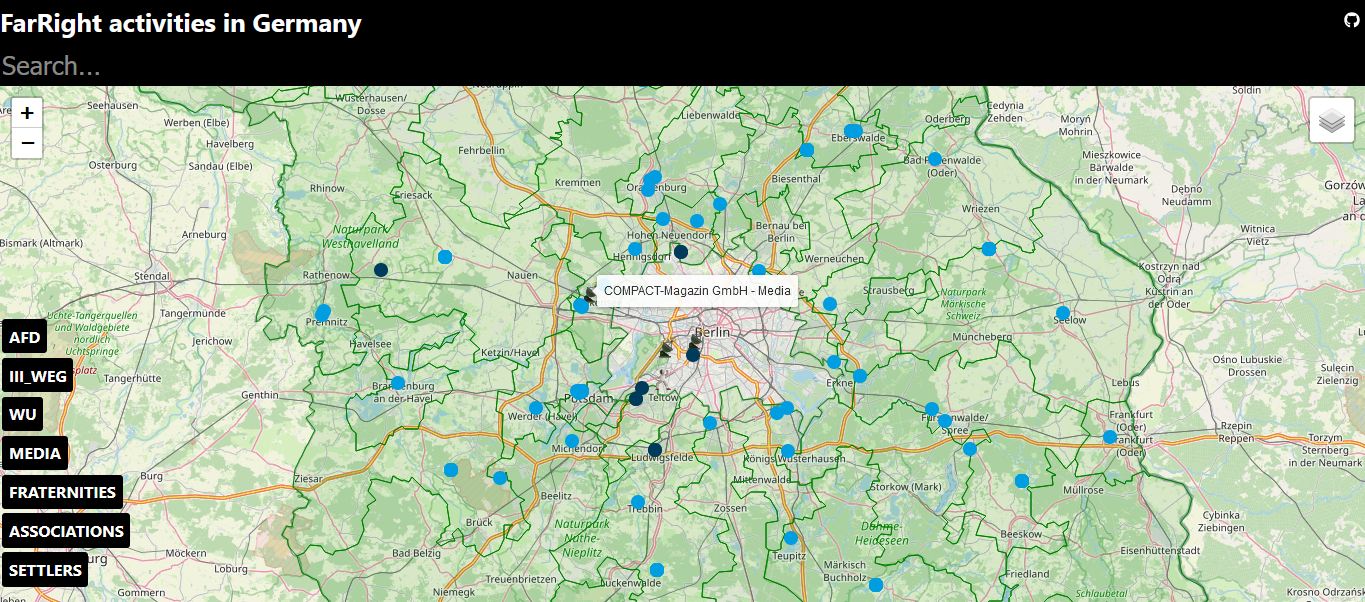
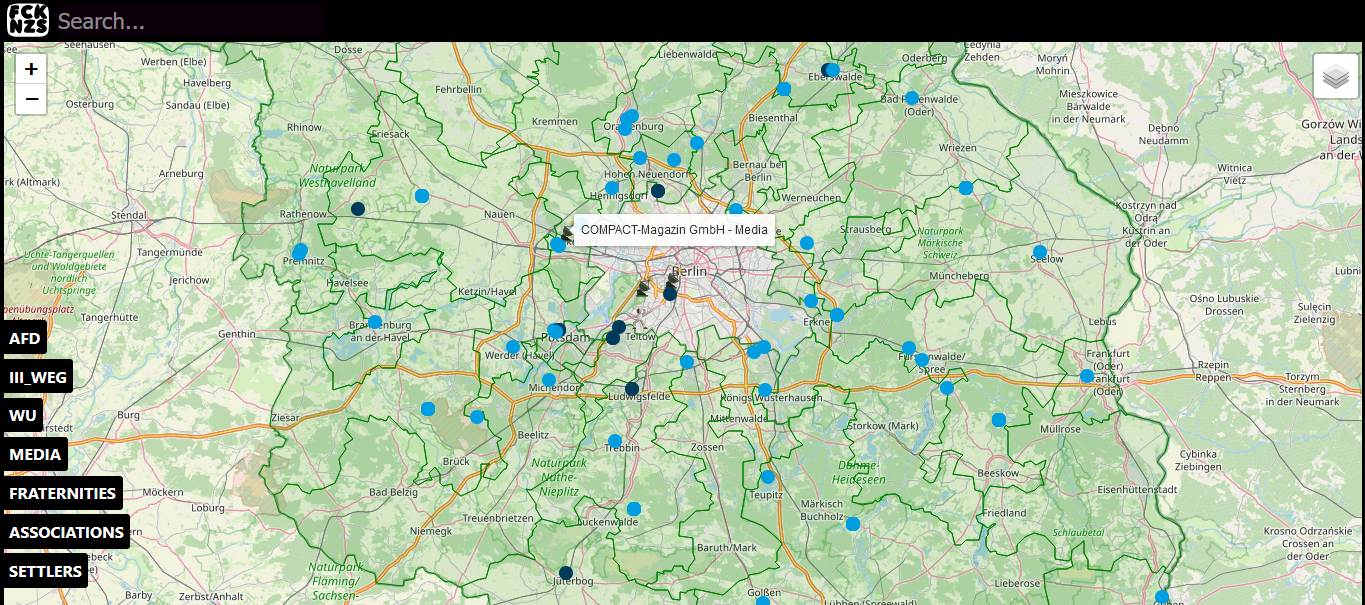
sc update, css styling

diff --git a/src/styles/Home.module.scss b/src/styles/Home.module.scss
@@ -34,20 +34,19 @@
 }
 
 .inputText {
-  width:77vw;
-  height: 2.1em;
   font-size: 1.4em;
-  background: rgba(0,0,0, 1.0);
+  background: rgb(11, 0, 10);
   color: white;
   border: none;
-  margin-left: 2.94rem ;
-  display: flex ;
+  margin-left: 3.21rem;
+  display: flex;
   justify-content: center;
   align-items: center;
-  padding: 0.5em;
+  padding: 0.14rem;
   border-radius: 0.5em;
   position: relative;
   z-index: 1000;
+  margin-bottom: 0.35rem;
 }
 
 .inputText:focus {

diff --git a/src/components/Layout/Layout.module.scss b/src/components/Layout/Layout.module.scss
@@ -10,12 +10,8 @@
 }
 
 .logo {
-  display: flex;
-  justify-content: center;
-  align-items: center;
-  padding: 0.28rem;
   position: absolute;
   left: 0.42rem;
-  top: 0.21rem;
   z-index: 9999;
+  margin-top: -0.35rem;
 }

diff --git a/src/styles/globals.scss b/src/styles/globals.scss
@@ -26,7 +26,7 @@ h2{
   font-size: large;
 }
 
-h3{
+h3, h4, h5, h6{
   margin-bottom: 0;
   padding-bottom: 0;
   font-size: small;
